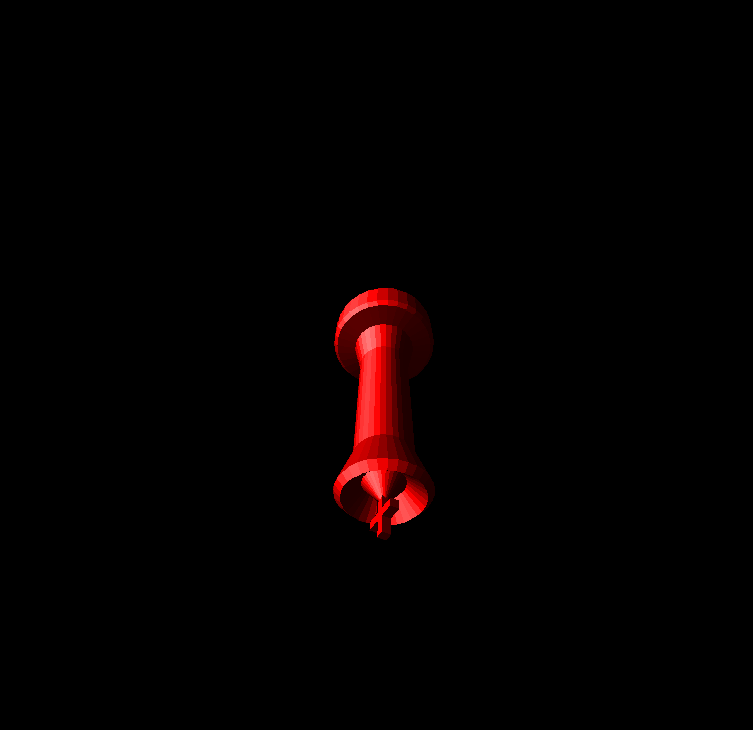
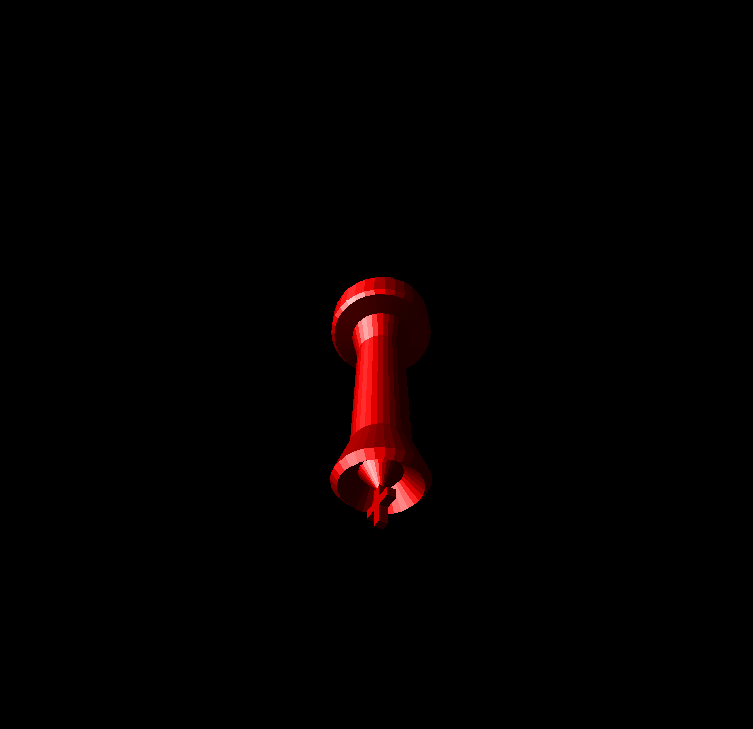
illumination
constant/gouraud/phong shading
with blinn-phong illumination model

Changed region(s): [[0.4276, 0.3621, 0.5803, 0.7545]]

diff --git a/model_render/src/transfrom/ViewTransform.java b/model_render/src/transfrom/ViewTransform.java
@@ -34,7 +34,7 @@ public class ViewTransform {
 	private static double h = 10.0;
 	private static double f = 80.0;
 
-	private static final boolean doBackface = false;
+	private static final boolean doBackface = true;
 	private static final int WIDTH = 800;
 	private static final int HEIGHT = 800;
 
@@ -60,11 +60,11 @@ public class ViewTransform {
 	private static float light_color_b;
 
 	// Roughness constant on surface
-	private static int roughnessN = 4;
+	private static int roughnessN = 8;
 
 	// Specular Light Parameters
-	private static float Is = (float) 0.7;
-	private static float ks = (float) 0.7;
+	private static float Is = (float) 0.9;
+	private static float ks = (float) 0.8;
 
 	// Diffuse Light Parameters
 	private static float Id = (float) 0.4;
@@ -498,9 +498,9 @@ public class ViewTransform {
 
 							double zp = za + (xp - xa) * delta_z;
 
-							double xp_x = xa_x + (xa - xp) * deltaX;
-							double xp_y = xa_y + (xa - xp) * deltaY;
-							double xp_z = xa_z + (xa - xp) * deltaZ;
+							double xp_x = xa_x + (xp - xa) * deltaX;
+							double xp_y = xa_y + (xp - xa) * deltaY;
+							double xp_z = xa_z + (xp - xa) * deltaZ;
 
 							Vector currNormal = new Vector(xp_x, xp_y, xp_z).unify();
 
